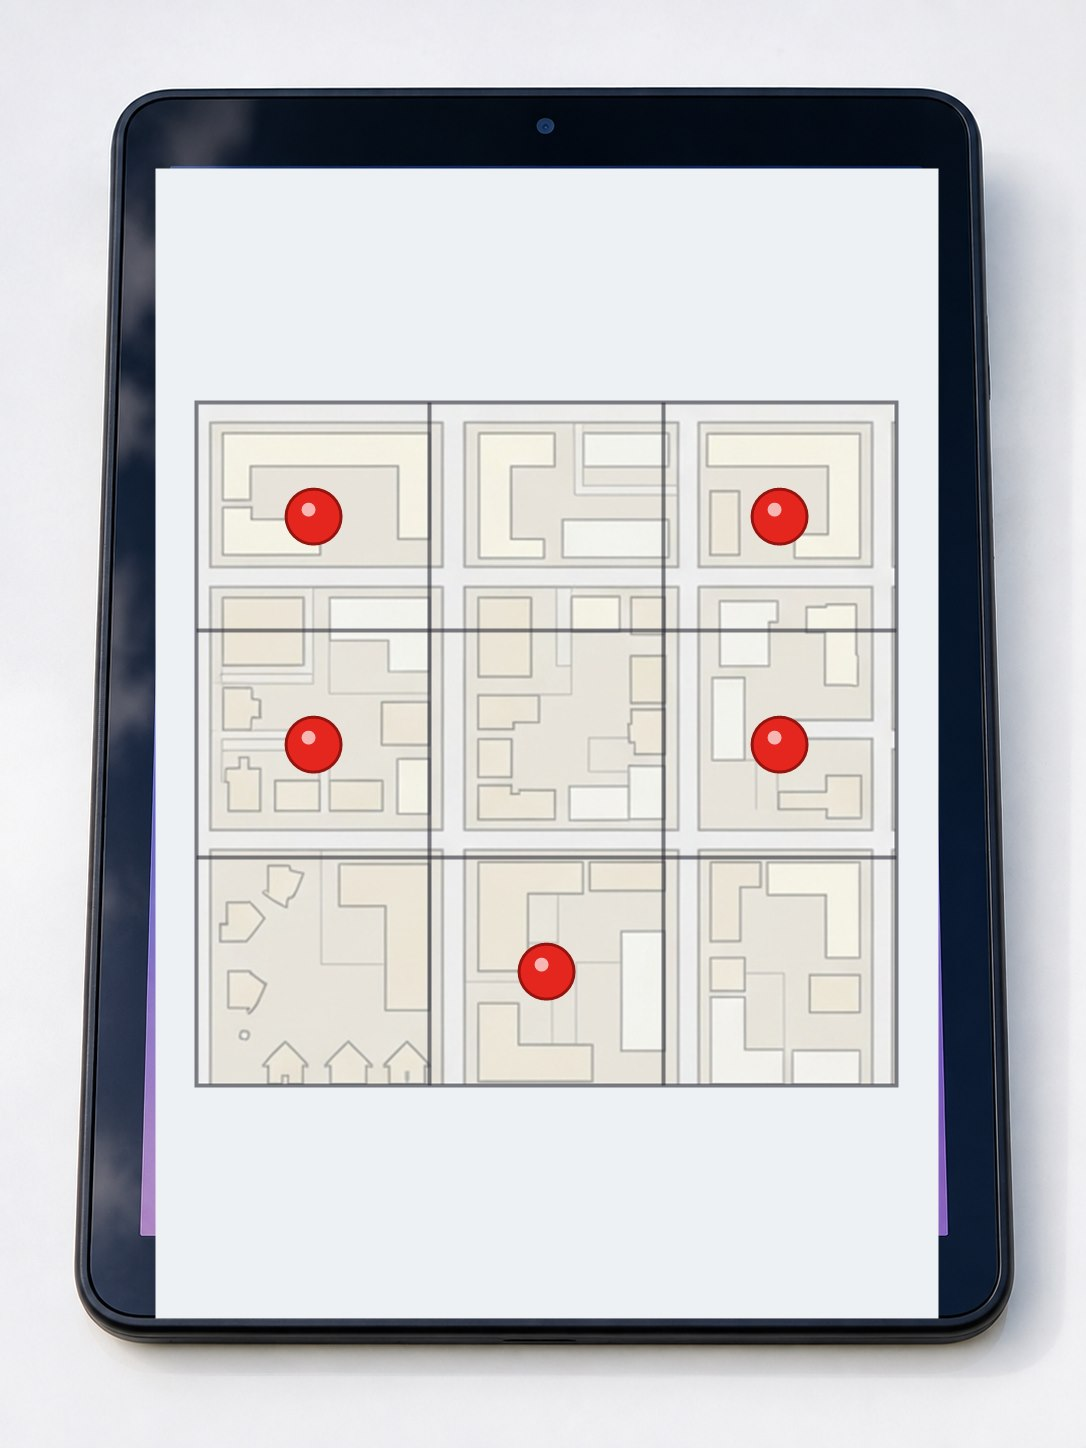
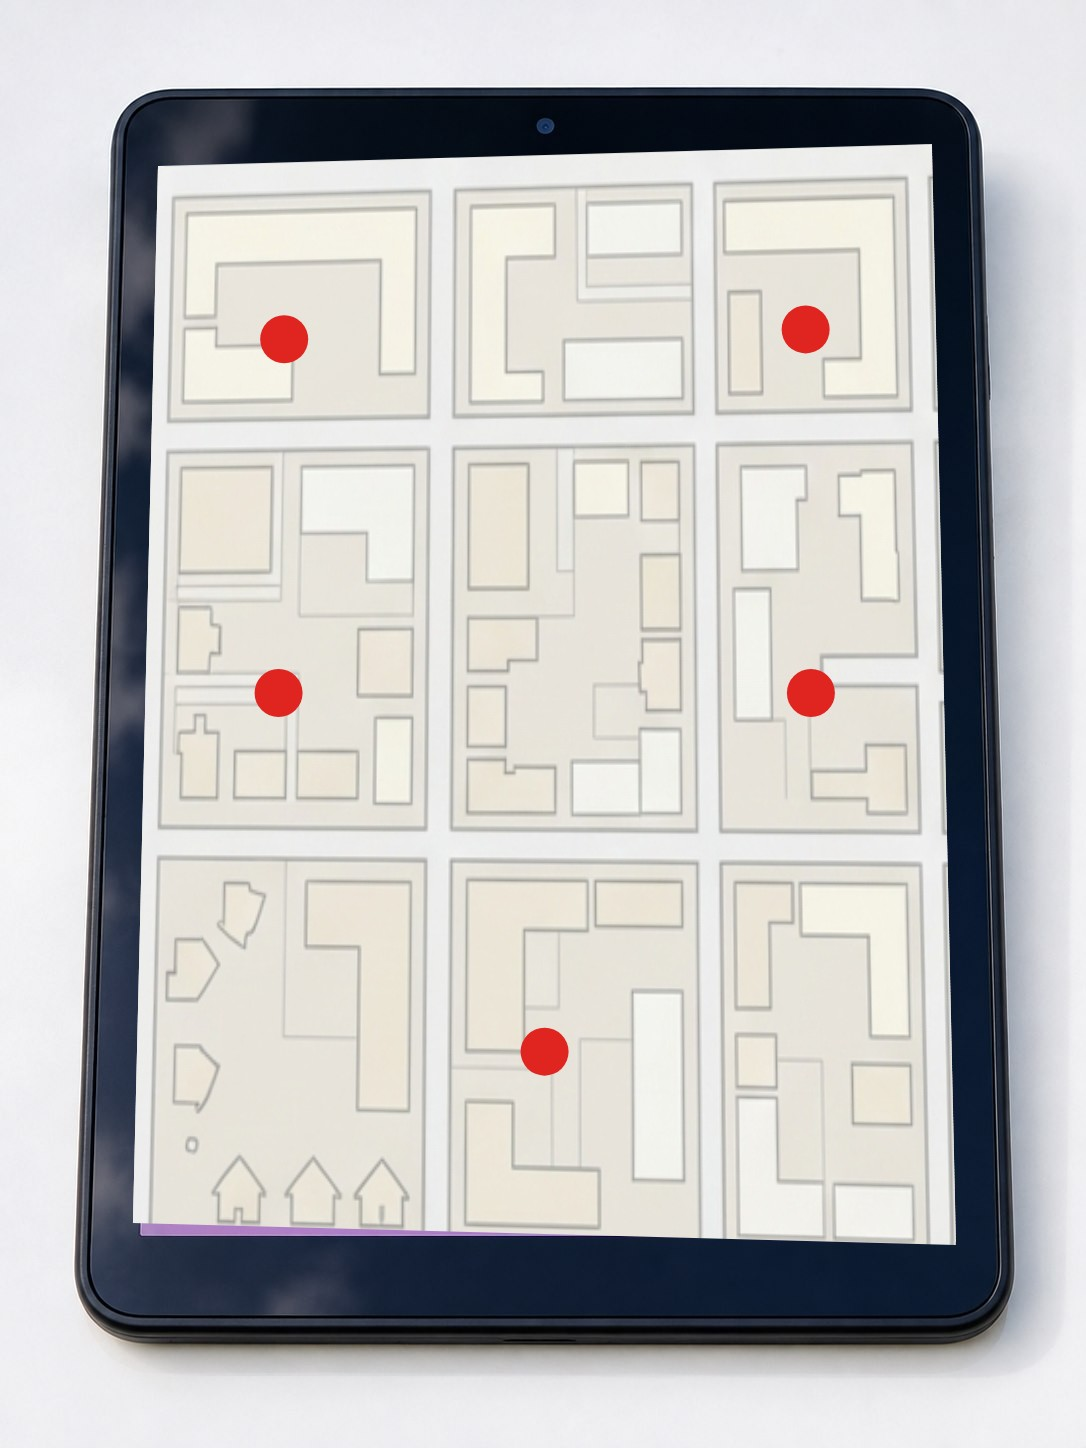
방탈출: 태블릿 지도 원근워핑(격자제거·단순빨간원) + 잠금UI 재배치(밑줄6개·자판 화면내·멘트 하단)

Changed region(s): [[0.1215, 0.0932, 0.8812, 0.9323]]

diff --git a/index.html b/index.html
@@ -247,29 +247,32 @@
   #app.phoneOpen #invWrap{ z-index:36; }
   #app.phoneOpen #invWrap #inventory{ box-shadow:0 0 0 2px rgba(255,255,255,.3), 0 -6px 22px rgba(0,0,0,.5); }
 
-  /* 태블릿 잠금해제(보닛) — 폰 팝업과 같은 구조, 6칸 알파벳 + ABC 자판 */
+  /* 태블릿 잠금해제(보닛) — 밑줄 6개는 사진 속 입력 필 구역(밝은 띠)에 딱 맞춤, 멘트는 사진 아래 */
   #tab{ position:absolute; inset:0; z-index:34; background:rgba(10,6,18,.93); display:none;
     flex-direction:column; align-items:center; justify-content:center; padding:10px; touch-action:manipulation; backdrop-filter:blur(3px); }
   #tabClose{ position:absolute; top:14px; right:16px; width:38px; height:38px; border-radius:50%;
     background:rgba(255,255,255,.15); color:#fff; border:none; font-size:20px; cursor:pointer; z-index:2; touch-action:manipulation; }
   #tabImgWrap{ position:relative; flex:none; }
-  #tabImg{ max-height:82vh; max-width:94vw; border-radius:14px; display:block; -webkit-user-drag:none; }
-  #tabScreen{ position:absolute; left:14%; top:11.5%; width:72%; height:79%;
-    display:flex; flex-direction:column; align-items:center; box-sizing:border-box; padding:7% 4% 5%; overflow:hidden; color:#fff; }
-  #tabLockMsg{ font-size:min(2.4vh,15px); font-weight:800; text-align:center; word-break:keep-all; line-height:1.3;
-    text-shadow:0 1px 6px rgba(0,0,0,.45); }
-  #tabCells{ display:flex; gap:min(.9vh,6px); margin-top:26%; }
-  .tcell{ width:min(5vh,37px); height:min(6vh,45px); border-radius:9px; background:rgba(255,255,255,.92);
-    color:#1c2333; font-size:min(3.2vh,22px); font-weight:800; display:flex; align-items:center; justify-content:center;
-    font-family:'Courier New',monospace; box-shadow:0 2px 8px rgba(0,0,0,.3); }
-  .tcell.blink{ box-shadow:0 0 0 2px #ffd97d, 0 2px 8px rgba(0,0,0,.3); }
-  #tabKeys{ width:100%; margin-top:auto; display:flex; flex-direction:column; gap:min(1vh,7px); }
-  .tkrow{ display:flex; gap:min(.7vh,5px); justify-content:center; }
-  .tkey{ flex:1 1 0; min-width:0; height:min(5.6vh,44px); border-radius:8px; border:none; padding:0;
-    font-size:min(2.2vh,15px); font-weight:800; background:#fff; color:#333;
-    box-shadow:0 2px 7px rgba(0,0,0,.28); cursor:pointer; transition:.1s; touch-action:manipulation; }
+  #tabImg{ max-height:76vh; max-width:94vw; border-radius:14px; display:block; -webkit-user-drag:none; }
+  /* 입력 밑줄 6개 — 사진의 입력 필(가로 띠) 위치: x 24.4~76.4%, y 44.9~50.7% */
+  #tabCells{ position:absolute; left:25.5%; top:45.1%; width:49.5%; height:5.4%;
+    display:flex; gap:4.5%; align-items:stretch; }
+  .tcell{ flex:1 1 0; min-width:0; border-bottom:2px solid rgba(255,255,255,.9);
+    color:#fff; font-size:min(3vh,22px); font-weight:800; font-family:'Courier New',monospace;
+    display:flex; align-items:flex-end; justify-content:center; padding-bottom:1px;
+    text-shadow:0 1px 5px rgba(0,0,0,.5); }
+  .tcell.blink{ border-bottom-color:#ffd97d; border-bottom-width:3px; }
+  /* 자판 — 화면 안쪽 하단 (화면 아래 경계 약 84% 위로) */
+  #tabKeys{ position:absolute; left:16.5%; width:68%; top:56%;
+    display:flex; flex-direction:column; gap:min(.9vh,6px); }
+  .tkrow{ display:flex; gap:min(.6vh,5px); justify-content:center; }
+  .tkey{ flex:1 1 0; min-width:0; height:min(4.8vh,38px); border-radius:8px; border:none; padding:0;
+    font-size:min(2vh,14px); font-weight:800; background:rgba(255,255,255,.95); color:#333;
+    box-shadow:0 2px 6px rgba(0,0,0,.35); cursor:pointer; transition:.1s; touch-action:manipulation; }
   .tkey:active{ transform:scale(.92); background:#ffeaf3; }
   .tkey.tback{ flex:1.5 1 0; background:#f3e2ea; }
+  #tabMsg{ margin-top:12px; color:#fff; font-size:15px; font-weight:800; text-align:center;
+    text-shadow:0 2px 8px rgba(0,0,0,.7); }
 
   .overlay{ position:absolute; inset:0; z-index:50; display:flex; flex-direction:column;
     align-items:center; justify-content:center; text-align:center; padding:30px;
@@ -346,17 +349,15 @@
     </div>
   </div>
 
-  <!-- 태블릿 잠금해제 팝업 (경찰차 보닛) -->
+  <!-- 태블릿 잠금해제 팝업 (경찰차 보닛) — 밑줄 6개는 사진의 입력 필 위, 자판은 화면 안, 멘트는 사진 아래 -->
   <div id="tab">
     <button id="tabClose" onclick="closeTab()">✕</button>
     <div id="tabImgWrap">
       <img id="tabImg" alt="">
-      <div id="tabScreen">
-        <div id="tabLockMsg">🔒 태블릿이 잠겨있어</div>
-        <div id="tabCells"></div>
-        <div id="tabKeys"></div>
-      </div>
+      <div id="tabCells"></div>
+      <div id="tabKeys"></div>
     </div>
+    <div id="tabMsg">🔒 태블릿이 잠겨있어</div>
   </div>
 
   <div id="modalBg"><div id="modal"></div></div>
@@ -1715,7 +1716,7 @@ function openTablet(){
   if(state.flags.tablet_open){ openTabletMap(); return; }   // 이미 풀렸으면 바로 지도
   tabVal="";
   $("#tabImg").src="img/closeup/tablet_lock.jpg";
-  $("#tabLockMsg").textContent="🔒 태블릿이 잠겨있어";
+  $("#tabMsg").textContent="🔒 태블릿이 잠겨있어";
   renderTabCells(); buildTabKeys();
   SFX.open();
   $("#tab").style.display="flex";
@@ -1760,10 +1761,10 @@ function tabTap(k){
       toast("🔓 잠금이 풀렸다!");
       setTimeout(()=>openTabletMap(), 500);
     } else {
-      $("#tabLockMsg").textContent="❌ 아닌 것 같다…";
+      $("#tabMsg").textContent="❌ 아닌 것 같다…";
       if(SFX.fail)SFX.fail(); vib([40,30,40]);
       setTimeout(()=>{ tabVal=""; renderTabCells();
-        $("#tabLockMsg").textContent="🔒 태블릿이 잠겨있어"; }, 900);
+        $("#tabMsg").textContent="🔒 태블릿이 잠겨있어"; }, 900);
     }
   }
 }
